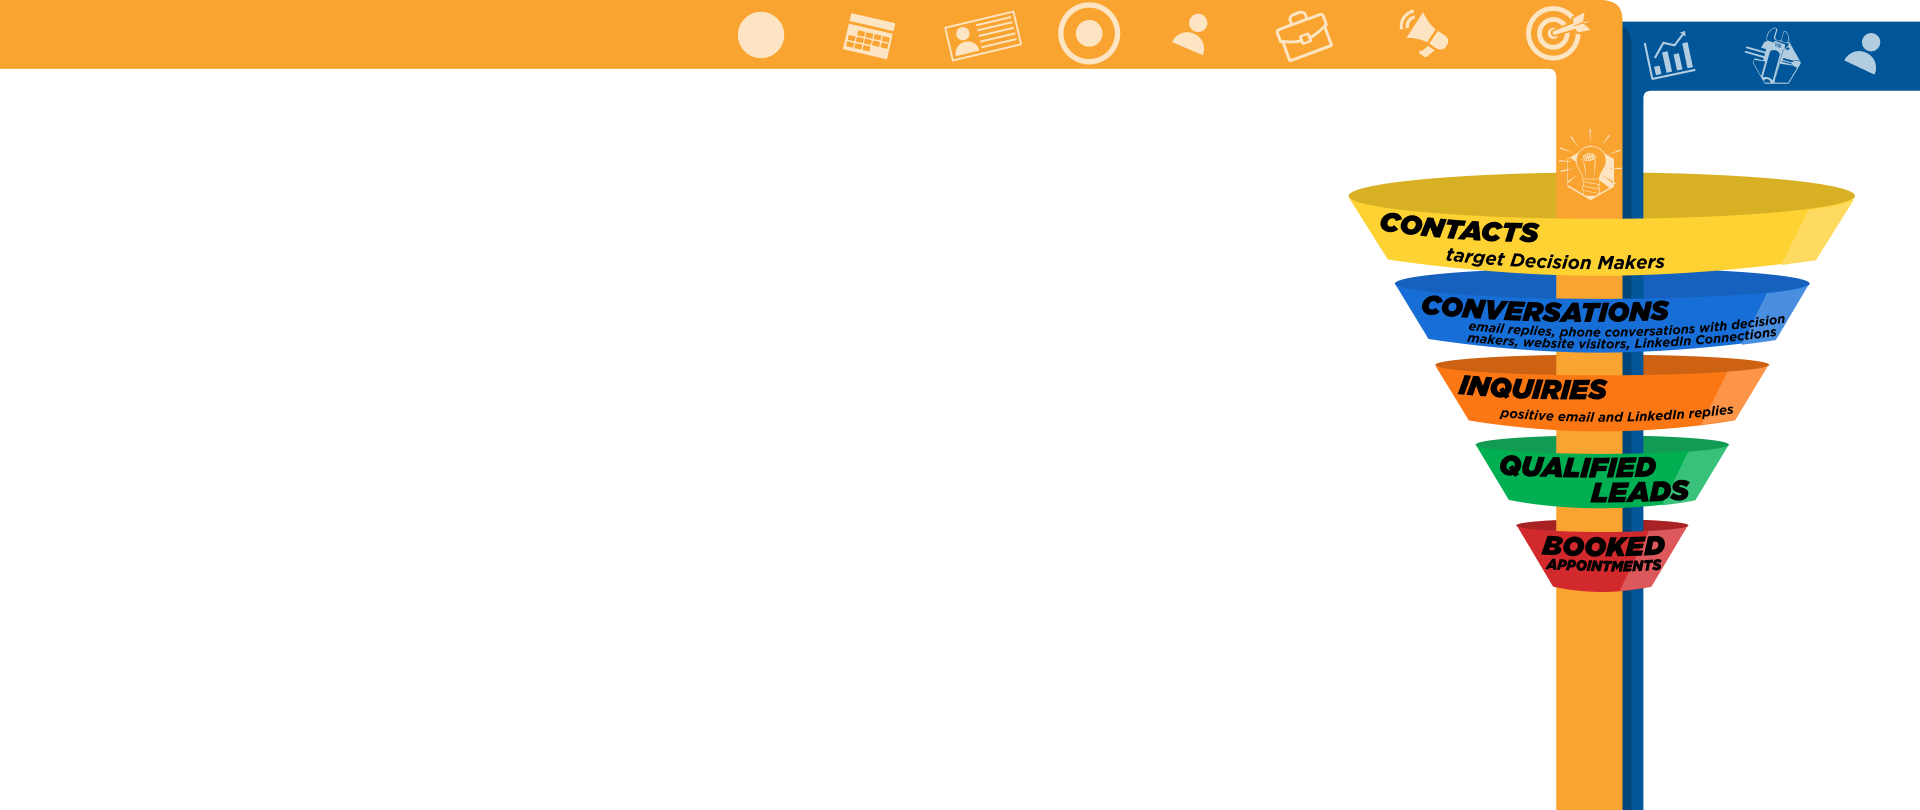
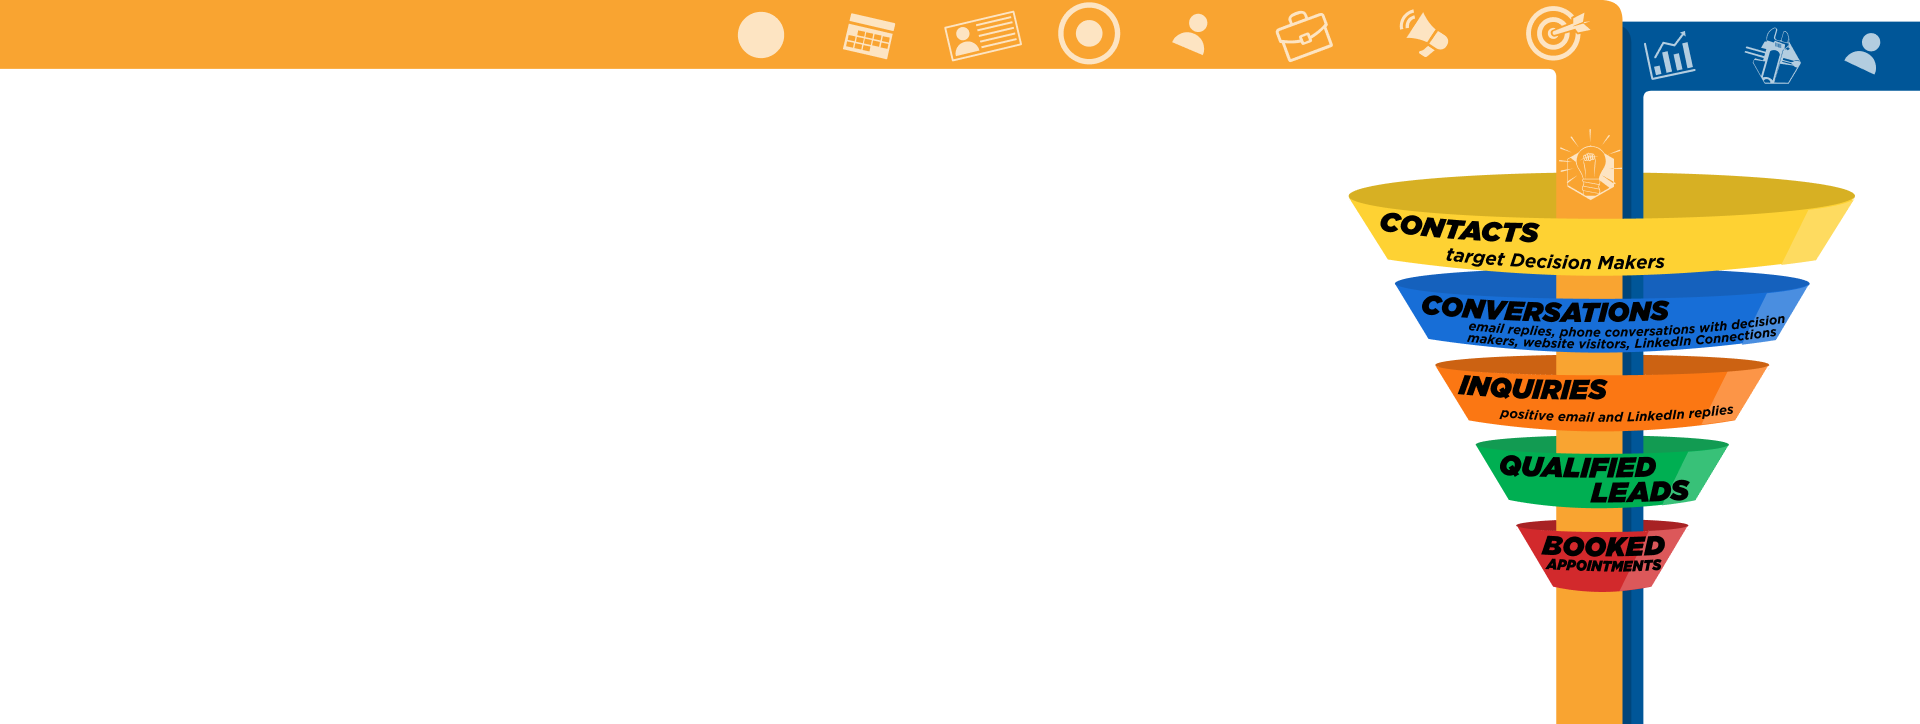
added new page and modified some style

Changed region(s): [[0.6875, 0.1823, 0.9688, 0.8204], [0.0, 0.0, 1.0, 0.1519]]

diff --git a/app/css/style.css b/app/css/style.css
@@ -334,6 +334,10 @@ body { margin: 0; position: relative; background-color: #fff; height: 100%; font
 
 .bg-funnel .title-section { margin-bottom: 48px; }
 
+.bg-funnel__text { margin-bottom: 24px; }
+
+.bg-funnel__text:last-of-type { margin-bottom: 0; }
+
 .bg-funnel__item { margin-top: 56px; }
 
 .bg-funnel__item .subtitle-blue { margin-bottom: 24px; }
@@ -373,6 +377,10 @@ body { margin: 0; position: relative; background-color: #fff; height: 100%; font
 .bg-funnel__img_item:nth-of-type(5) { top: 510px; }
 
 .bg-funnel__img_item:nth-of-type(5) .image-front { top: -8px; }
+
+.bg-funnel__list { display: -webkit-flex; display: -ms-flexbox; display: flex; -webkit-flex-wrap: wrap; -ms-flex-wrap: wrap; flex-wrap: wrap; margin-top: 14px; max-width: 1125px; }
+
+.bg-funnel__list > li { width: 33%; padding-right: 15px; margin-top: 35px; }
 
 .clients { padding: 48px 0; }
 
@@ -442,7 +450,7 @@ body { margin: 0; position: relative; background-color: #fff; height: 100%; font
   .why-we__item { margin-bottom: 60px; }
   .why-we__item .subtitle-blue > img { width: 56px; }
   .why-we__item p { padding-left: 72px; width: 100%; }
-  .bg-funnel { padding: 120px 0 50px; background: url(../images/funnel/bg-funnel.svg) no-repeat top 10px right -100px/cover; }
+  .bg-funnel { padding: 120px 0 50px; background: url(../images/funnel/bg-funnel.svg) no-repeat top 10px right -100px/1600px; }
   .bg-funnel .title-section { margin-bottom: 38px; }
   .bg-funnel__img { display: none; }
   .bg-funnel__item { margin-top: 30px; }
@@ -478,6 +486,8 @@ body { margin: 0; position: relative; background-color: #fff; height: 100%; font
 @media only screen and (max-width: 767.8px) { .slider__item::after { width: 110%; }
   .slider__info .title-section { margin-bottom: 22px; }
   .bg-funnel { padding: 60px 0 40px; background: transparent; }
+  .bg-funnel__list { -webkit-justify-content: space-between; -ms-flex-pack: justify; justify-content: space-between; }
+  .bg-funnel__list > li { width: 48%; padding-right: 0; margin-top: 25px; }
   .get-marketing .subtitle-blue { width: 100%; }
   .get-marketing__img { margin-top: 26px; }
   .get-marketing__bottom .col-12 { margin-bottom: 36px; }
@@ -488,6 +498,8 @@ body { margin: 0; position: relative; background-color: #fff; height: 100%; font
   .slider__img { position: static; width: 100%; max-height: 280px; margin-bottom: 22px; }
   .slider__info .title-section { margin-bottom: 22px; }
   .slick-dots { bottom: 16px; }
+  .bg-funnel { padding: 20px 0 40px; }
+  .bg-funnel__list > li { width: 100%; }
   .clients__item { width: 50%; height: auto; margin-bottom: 14px; } }
 
 @media screen and (min-width: 1750px) { .slick-dots { right: 5.2%; }
@@ -498,5 +510,41 @@ body { margin: 0; position: relative; background-color: #fff; height: 100%; font
   .bg-funnel { max-width: 2560px; margin: 0 auto; }
   .bg-funnel__img > img { width: 2600px; }
   .bg-funnel__img_item { right: 180px; } }
+
+.first-screen { position: relative; height: 640px; overflow: hidden; }
+
+.first-screen .container, .first-screen .row { height: 100%; }
+
+.first-screen::after { content: ""; position: absolute; top: 0; right: 0; bottom: 0; background: url(../images/bg-first-screen.svg) no-repeat top left/cover; width: 76%; z-index: -1; }
+
+.first-screen__img { position: absolute; top: 0; left: 0; bottom: 0; z-index: -1; }
+
+.first-screen__img img { width: 100%; height: 100%; -o-object-fit: cover; object-fit: cover; }
+
+.first-screen .title-section { margin-bottom: 48px; }
+
+.first-screen p { margin-bottom: 24px; }
+
+.first-screen p:last-of-type { margin-bottom: 0; }
+
+.first-screen__btn { margin-top: 48px; }
+
+@media only screen and (max-width: 1199.8px) { .first-screen { height: 600px; }
+  .first-screen::after { width: 80%; }
+  .first-screen .title-section { margin-bottom: 38px; }
+  .first-screen p { margin-bottom: 18px; }
+  .first-screen__btn { margin-top: 38px; } }
+
+@media only screen and (max-width: 991.8px) { .first-screen { height: 540px; }
+  .first-screen::after { width: 98%; }
+  .first-screen .title-section { margin-bottom: 26px; }
+  .first-screen p { margin-bottom: 14px; }
+  .first-screen__btn { margin-top: 26px; } }
+
+@media only screen and (max-width: 767.8px) { .first-screen { padding: 40px 0; height: auto; }
+  .first-screen::after { width: 110%; top: -20%; }
+  .first-screen .title-section { text-align: center; }
+  .first-screen__img { display: none; }
+  .first-screen__btn { margin: 26px auto 0; } }
 
 /*# sourceMappingURL=style.css.map */

diff --git a/app/scss/pages/_index.scss b/app/scss/pages/_index.scss
@@ -133,6 +133,12 @@
 	.title-section {
 		margin-bottom: 48px;
 	}
+	&__text {
+		margin-bottom: 24px;
+		&:last-of-type {
+			margin-bottom: 0;
+		}
+	}
 	&__item {
 		margin-top: 56px;
 		.subtitle-blue {
@@ -211,6 +217,17 @@
 					top: -8px;
 				}
 			}
+		}
+	}
+	&__list {
+		display: flex;
+		flex-wrap: wrap;
+		margin-top: 14px;
+		max-width: 1125px;
+		> li {
+			width: 33%;
+			padding-right: 15px;
+			margin-top: 35px;
 		}
 	}
 }
@@ -450,7 +467,7 @@
 
 	.bg-funnel {
 		padding: 120px 0 50px;
-		background: url(../images/funnel/bg-funnel.svg) no-repeat top 10px right -100px / cover;
+		background: url(../images/funnel/bg-funnel.svg) no-repeat top 10px right -100px / 1600px;
 		.title-section {
 			margin-bottom: 38px;
 		}
@@ -584,6 +601,14 @@
 	.bg-funnel {
 		padding: 60px 0 40px;
 		background: transparent;
+		&__list {
+			justify-content: space-between;
+			> li {
+				width: 48%;
+				padding-right: 0;
+				margin-top: 25px;
+			}
+		}
 	}
 
 	.get-marketing {
@@ -629,6 +654,15 @@
 
 	.slick-dots {
 		bottom: 16px;
+	}
+
+	.bg-funnel {
+		padding: 20px 0 40px;
+		&__list {
+			> li {
+				width: 100%;
+			}
+		}
 	}
 
 	.clients {

diff --git a/app/index.html b/app/index.html
@@ -47,7 +47,7 @@
 								<a href="#" class="menu__open-dropdown">Services</a>
 								<ul class="menu__dropdown">
 									<li><a href="#">Lead Generation</a></li>
-									<li><a href="#">Appointment Setting</a></li>
+									<li><a href="appointment-setting.html">Appointment Setting</a></li>
 									<li><a href="#">Database Profiling</a></li>
 									<li><a href="#">Social Media and Email Marketing</a></li>
 									<li><a href="#">How it works</a></li>

diff --git a/app/scss/style.scss b/app/scss/style.scss
@@ -6,3 +6,4 @@
 @import "./layout/footer";
 
 @import "./pages/index";
+@import "./pages/appointment-setting";
